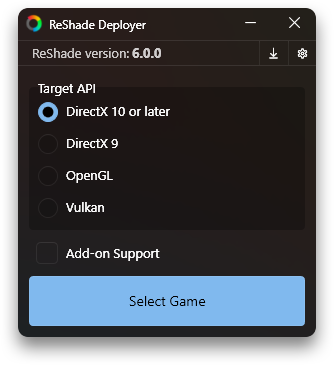
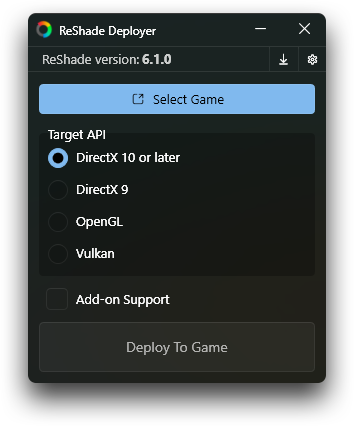
Update README

diff --git a/README.md b/README.md
@@ -13,7 +13,7 @@ Those who want to:
 ## Features
 A minimal installer program that lets you:
 - Pick graphics API (DirectX 10 or later, DirectX 9, OpenGL, Vulkan).
-- Automatically pick between 64-bit and 32-bit by analysing the executable.
+- Automatically pick the rendering API and 32/64-bit versions by analysing the executable.
 - Toggle a checkbox to install the 'Add-on Support' version.
 - Add a 'Deploy ReShade' option to Window's context (right-click) menu for .exe files and shortcuts.
   - This will open the normal program window, but the 'Select Game' button is replaced by a 'Deploy to Game.exe' button so you don't need to navigate to the executable.
@@ -48,14 +48,15 @@ There are two ways to use ReShade Deployer: Running it normally, or running it f
 
 ### Normal
 1. Run the program.
-2. Select the target graphics API (DirectX, Vulkan, etc) that the game uses. If you are unsure, check the API section of the game's [PCGamingWiki](https://www.pcgamingwiki.com/wiki/Home) page.
-3. Press the 'Select Game' button and navigate to the game's .exe.
-4. If an existing ReShade preset is detected, it will ask whether to overwrite it.
+2. Select the game you want to deploy ReShade to using the 'Select Game' button.
+3. The target graphics API (DirectX, Vulkan, etc) should be automatically selected. If not, select it manually. If you are unsure, check the API section of the game's [PCGamingWiki](https://www.pcgamingwiki.com/wiki/Home) page.
+4. Press the 'Deploy to Game' button.
+5. If an existing ReShade preset is detected, it will ask whether to overwrite it.
 
 ### Context Menu
 To enable this, run the program, and from the settings (cogwheel) list, check the **Context Menu Deploy** option.
 1. Right-click any game .exe or shortcut in Windows's file explorer or desktop, and select 'Deploy ReShade'.
-2. Select the target graphics API (DirectX, Vulkan, etc) that the game uses. If you are unsure, check the API section of the game's [PCGamingWiki](https://www.pcgamingwiki.com/wiki/Home) page.
+2. The target graphics API (DirectX, Vulkan, etc) should be automatically selected. If not, select it manually. If you are unsure, check the API section of the game's [PCGamingWiki](https://www.pcgamingwiki.com/wiki/Home) page.
 3. Press the 'Deploy to Game' button.
 4. If an existing ReShade preset is detected, it will ask whether to overwrite it.
 
